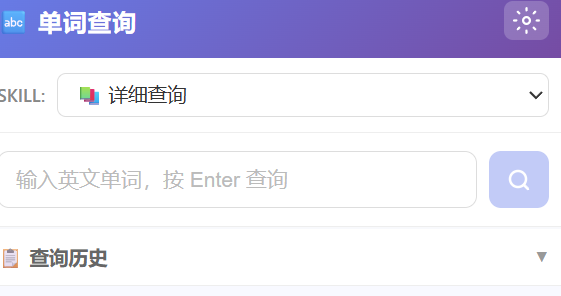
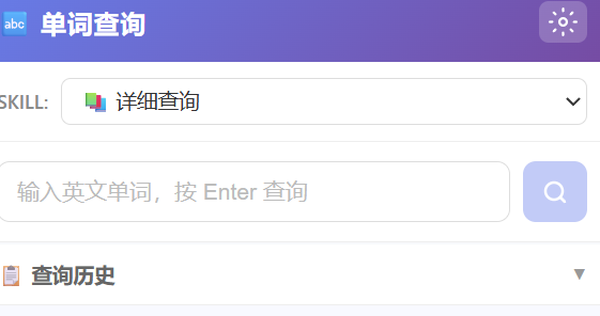
修复例句/搭配渲染 + 统一图片尺寸 + 更新 README
- 修复: presets.js 中 examples/collocations 的 JSON 结构更明确 ({"en","zh","source"})
- 修复: popup.js 例句渲染增强 — 序号展示、来源标记 (📰)、搭配成对显示
- 调整: 两张截图统一为 600px 宽，README 中使用固定宽度并排展示
- 更新: README 移除考试模式引用，新增科技百科说明

diff --git a/popup/popup.js b/popup/popup.js
@@ -145,17 +145,30 @@ function showResult(word, data) {
 
     // 根据字段类型特殊渲染
     if (Array.isArray(value)) {
-      // 数组 -> 每个元素一行
       valueDiv.innerHTML = value
-        .map((item) => {
-          if (typeof item === 'object') {
-            // [{en: "...", zh: "..."}] 格式
+        .map((item, idx) => {
+          if (typeof item === 'object' && field.key === 'examples') {
+            // 例句: {en, zh, source} -> 带来源标记
+            const en = item.en || item.english || '';
+            const zh = item.zh || item.chinese || '';
+            const src = item.source || '';
+            const num = idx + 1;
+            return `<div style="margin-bottom:6px;">
+              <div style="color:#333;line-height:1.6;">${num}. ${escapeHtml(en)}</div>
+              <div style="color:#888;font-size:12px;margin:2px 0;">${escapeHtml(zh)}</div>
+              ${src ? `<span style="font-size:10px;color:#999;background:#f0f2f5;padding:1px 6px;border-radius:3px;">📰 ${escapeHtml(src)}</span>` : ''}
+            </div>`;
+          } else if (typeof item === 'object' && (field.key === 'collocations')) {
+            // 搭配: {en, zh} -> 成对显示
+            return `<div style="margin-bottom:3px;">🔗 <b>${escapeHtml(item.en || item.english || '')}</b> — ${escapeHtml(item.zh || item.chinese || '')}</div>`;
+          } else if (typeof item === 'object') {
+            // 其他对象: {en, zh} 通用格式
             return `<div style="margin-bottom:4px;">${escapeHtml(item.en || item.english || '')}<br><span style="color:#888;font-style:normal;">${escapeHtml(item.zh || item.chinese || '')}</span></div>`;
           }
-          return `<div style="margin-bottom:4px;">${escapeHtml(String(item))}</div>`;
+          return `<div style="margin-bottom:4px;">${idx + 1}. ${escapeHtml(String(item))}</div>`;
         })
         .join('');
-      if (field.key === 'examples' || field.key === 'exam_examples') {
+      if (field.key === 'examples') {
         valueDiv.classList.add('examples');
       }
     } else if (typeof value === 'object') {

diff --git a/skills/presets.js b/skills/presets.js
@@ -18,9 +18,9 @@ export const BUILTIN_SKILLS = [
 - definition: 中文释义，包含词性和详细解释
 - category: 词条类型，"general"（普通词汇）、"tech"（科技词汇）或 "academic"（学术术语）
 - tech_summary: 如果属于科技/IT/AI/专业术语，请基于维基百科风格给出简明的中文技术总结（80-150字），涵盖背景定义、核心概念、实际应用场景和相关技术。如果是普通词汇，此字段返回空字符串 ""。
-- examples: 2-3 个英文例句，附带中文翻译。例句必须取材自真实场景，如新闻报道（The New York Times, BBC, The Guardian等）、电影/电视剧台词、TED演讲、名人演讲或学术文献。每个例句需标注来源（格式: "来源：The New York Times"）。
-- synonyms: 3-5 个近义词或相关术语，用逗号分隔
-- collocations: 2-3 个常见搭配，附带中文翻译`,
+- examples: JSON 数组，每个元素为 {"en": "英文例句", "zh": "中文翻译", "source": "来源"}。例句必须取材自真实场景（新闻、电影台词、TED演讲等），source 字段标注具体来源名称。例如: {"en": "The algorithm outperformed all benchmarks.", "zh": "该算法在所有基准测试中表现优异。", "source": "MIT Technology Review"}
+- synonyms: 3-5 个近义词或相关术语，用逗号分隔的字符串
+- collocations: JSON 数组，每个元素为 {"en": "英文搭配短语", "zh": "中文翻译"}。例如: {"en": "cutting-edge technology", "zh": "尖端技术"}`,
     outputFields: [
       { key: 'phonetic', label: '音标' },
       { key: 'definition', label: '释义' },

diff --git a/README.md b/README.md
@@ -5,21 +5,18 @@
 ## ✨ 功能特性
 
 - **🤖 AI 驱动** — 基于 DeepSeek Chat API，返回结构化、高质量的单词释义
-- **🎨 Skill 模板系统** — 3 种内置模式（详细查询 / 快速查询 / 考试备考）+ 无限自定义模板
+- **🎨 Skill 模板系统** — 内置详细/快速两种模式 + 无限自定义模板
 - **🔊 发音朗读** — 使用浏览器原生 Web Speech API，一键朗读单词
-- **📋 查询历史** — 自动保存最近 20 条查询，支持回看
+- **📋 查询历史** — 自动保存最近 20 条查询，支持离线回看
+- **🔬 科技百科** — 自动识别 IT/AI/科技词汇，提供维基百科风格技术总结
 - **⚡ 轻量无依赖** — 纯 JavaScript (ES Module)，零构建工具，零第三方依赖
-- **🎯 响应式弹窗** — 400px 宽度，自适应高度，简洁美观
 
 ## 📸 效果展示
 
-### 弹窗查询
-
-![弹窗查询](images/screenshot-popup.png)
-
-### 选项设置
-
-![选项设置](images/screenshot-options.png)
+<p align="center">
+  <img src="images/screenshot-popup.png" alt="弹窗查询" width="400" />
+  <img src="images/screenshot-options.png" alt="选项设置" width="400" />
+</p>
 
 ## 🚀 快速开始
 
@@ -64,9 +61,15 @@ cd word
 
 | Skill | 图标 | 说明 | 输出内容 |
 |-------|------|------|----------|
-| `detailed` | 📚 | 详细查询 | 音标 + 释义 + 例句 + 近义词 + 搭配 + 词源 |
+| `detailed` | 📚 | 详细查询 | 音标 + 释义 + 科技百科 + 真实例句（含来源） + 近义词 + 搭配 |
 | `quick` | ⚡ | 快速查询 | 音标 + 中文释义 |
-| `exam` | 📝 | 考试模式 | 音标 + 释义 + 近义词辨析 + 真题风格例句 |
+
+### 科技词汇增强
+
+详细模式会自动识别单词类型：
+- **普通词汇** → 标准词典释义
+- **科技词汇**（IT/AI/CS 等）→ 额外输出维基百科风格技术总结
+- **例句真实来源** → 标注出处（The New York Times、BBC、TED 等）
 
 ### 自定义 Skill
 
@@ -95,7 +98,7 @@ word/
 │   ├── storage.js               # chrome.storage 读写封装
 │   └── tts.js                   # Web Speech API 封装
 ├── skills/
-│   └── presets.js               # 内置预设 Skill (3个)
+│   └── presets.js               # 内置预设 Skill (2个)
 ├── images/
 │   ├── screenshot-popup.png     # 弹窗截图
 │   └── screenshot-options.png   # 选项页截图